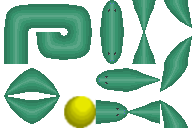
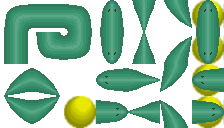
Add sprite for eating food.

diff --git a/ouroboros/snake.py b/ouroboros/snake.py
@@ -45,6 +45,7 @@ class Snake:
         self._head = head
         self._body = []
         self._tail = tail
+        self._eating = False
 
     @classmethod
     def new_snake(cls, display: Display, images: SpriteImages) -> 'Snake':
@@ -57,9 +58,6 @@ class Snake:
         self._head.mark_prev()
         return self._head.move_in(new_direction) and pygame.sprite.spritecollideany(self._head, self._body) is None
 
-    def grow(self) -> None:
-        self._body.insert(0, self._head.grow_body())
-
     def move_body(self) -> None:
         prev_segment_direction = self._head.get_prev_direction()
         for segment in self._body:
@@ -69,13 +67,16 @@ class Snake:
         self._tail.move_in(prev_segment_direction)
 
     def render(self) -> None:
-        follow_direction = self._head.render()
+        follow_direction = self._head.render(str(self._eating))
         for segment in self._body:
             follow_direction = segment.render(follow_direction)
         self._tail.render(follow_direction)
 
     def eats_food(self, food: Food) -> bool:
-        return pygame.sprite.collide_rect(self._head, food)
+        self._eating = pygame.sprite.collide_rect(self._head, food) == 1
+        if self._eating:
+            self._body.insert(0, self._head.grow_body())
+        return self._eating
 
     def is_on_food(self, food: Food) -> bool:
         return pygame.sprite.collide_rect(self._head, food) or pygame.sprite.spritecollideany(food, self._body)

diff --git a/ouroboros/__main__.py b/ouroboros/__main__.py
@@ -88,7 +88,6 @@ class Game:
                 if snake.eats_food(food):
                     score += 1
                     food.kill()
-                    snake.grow()
                     food = self._place_food(snake)
                 else:
                     snake.move_body()
